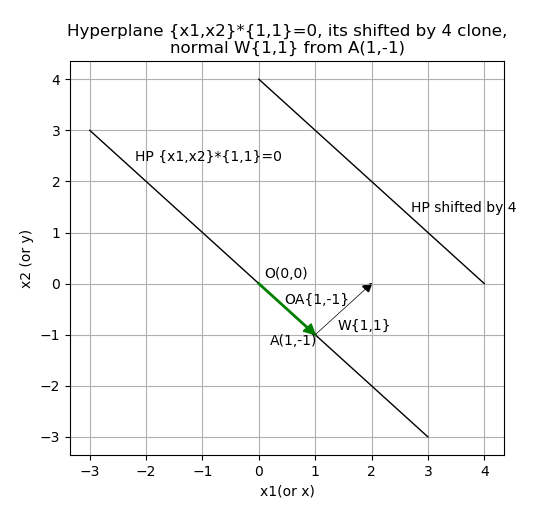
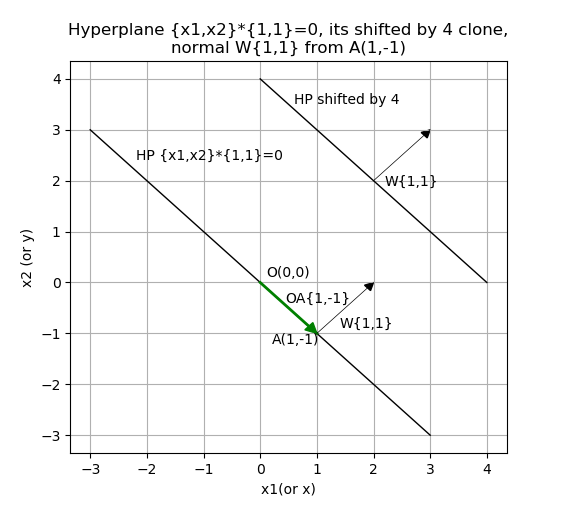
SVM s2

Changed region(s): [[0.0607, 0.0295, 0.9411, 0.9725], [0.5161, 0.1768, 0.7286, 0.2063], [0.0304, 0.442, 0.0607, 0.5599]]

diff --git a/docs/svm1.html b/docs/svm1.html
@@ -52,19 +52,21 @@
       
       <p><i>* In different sources vectors are described in slightly different notations, e.g. a vector is named with just bold lower case letter, see references.</i></p>
       
+      <p>First, you should better watch <a href="https://ocw.mit.edu/courses/electrical-engineering-and-computer-science/6-034-artificial-intelligence-fall-2010/">MIT 6.034 Fall 2010 Artificial Intelligence by Prof. Patrick Henry Winston, Lecture 16: Learning: Support Vector Machines.</a></p>
+      
       <h4>Hyperplane. From points to vectors.</h4>
       <p>Hyperplane is a linear function described with this vector equation:</p>
       <p>
       \begin{align}
-        \vec{\mathbf{X}} \cdot \vec{\mathbf{W}} = 0
+        \overrightarrow{X} \cdot \overrightarrow{W} = 0
       \end{align}
       </p>
-      <p>Where \(\vec{\mathbf{X}}\) is a data vector (e.g. points from origin (0,0)) in <b>N-dimention</b>.
-      \(\vec{\mathbf{W}}\) is a coefficient vector. So, this is Dot-product of two vectors, i.e. for <b>N-dimention</b> this is:</p>
+      <p>Where \(\overrightarrow{X}\) is a data vector (e.g. points from origin (0,0)) in <b>N-dimention</b>.
+      \(\overrightarrow{W}\) is a coefficient vector. So, this is Dot-product of two vectors, i.e. for <b>N-dimention</b> this is:</p>
       <p>
       <p>
       \begin{align}
-        \vec{\mathbf{X}} \cdot \vec{\mathbf{W}} = x1w1 + x2w2 + ... +xnwn
+        \overrightarrow{X} \cdot \overrightarrow{W} = x1w1 + x2w2 + ... +xnwn
       \end{align}
       </p>
       </p>
@@ -77,24 +79,53 @@
         So, shifted Hyperplane equation is:</p>
       <p>
       \begin{align}
-        \vec{\mathbf{X}} \cdot \vec{\mathbf{W}} + b = 0
+        \overrightarrow{X} \cdot \overrightarrow{W} + b = 0
       \end{align}
       </p>
       
       <p>Dot product of two vectors is also:</p>
       <p>
       \begin{align}
-        \vec{\mathbf{X}} \cdot \vec{\mathbf{W}} = \| \vec{\mathbf{X}} \| \| \vec{\mathbf{W}} \| cos \varTheta
+        \overrightarrow{X} \cdot \overrightarrow{W} = \| \overrightarrow{X} \| \| \overrightarrow{W} \| cos \varTheta
       \end{align}
       </p>
       <p>This means that a non-shifted Hyperplane's vectors in dot product are perpendicular to each other, i.e. \(cos \varTheta = 0 ⇒ \varTheta = 90^o\).
-        That is \(\vec{\mathbf{W}}\) is normal to \(\vec{\mathbf{X}}\).
+        That is \(\overrightarrow{W}\) is normal to \(\overrightarrow{X}\).
       </p>
       <p>Consider the simplest example - Hyperplane in 2D <b>y=-x</b>, that is <b>x2=-x1/w2</b>, that is <b>{x1,x2}*{1,1}=0</b>.
         Any point is also a vector from the origin, so lets draw this hyperplane plus its shifted by 4 clone, plus a point A on this Hyperplane for x1(or x)= 1, so x2( or y) = -1.
-        Vector \(\vec{\mathbf{OA}}\) from origin to A, and normal \(\vec{\mathbf{W}}\) from that point A:
+        Vector \(\overrightarrow{OA}\) from origin to A, and normal \(\overrightarrow{W}\) from that point A:
       </p>
       <p align="center"><img style="max-width: 100%" src="img/hyperplane.png" /></p>
+      <p>As you can see  \(\overrightarrow{W}\) is normal to this hyperplane with any shifting.</p>
+      
+      <h4>A SVM simplest example. Make it with your eyes.</h4>
+      <p>
+        Consider 4 samples in 2D - X1(0.5, 1.2), X2(1, 1) belong to class 1 (green) and X3(3, 3), X4(4, 3.3) belong to class 2 (blue):
+      </p>
+      <p align="center"><img style="max-width: 100%" src="img/svmsimple1.png" /></p>
+      <p>You can find the separating hyperplane and the support vectors (the "widest road") by your eyes.
+        The hyperplane is the same as in the previous chapter, i.e. coefficient vector \(\overrightarrow{W} = \langle 1, 1 \rangle \) and shifting <b>b=-4</b>.
+        Magnitude \(\|\overrightarrow{W}\|\) is half of the margin between support vectors in this case (1.4142).
+      </p>
+      <p>
+      Lets check these conditions:
+      \begin{align}
+        \overrightarrow{X_i} \cdot \overrightarrow{W} + b  \geq +1 \mbox{ for } y_i = +1 \mbox{ (class 2)}
+      \end{align}
+      \begin{align}
+        \overrightarrow{X_i} \cdot \overrightarrow{W} + b  \leq -1 \mbox{ for } y_i = -1 \mbox{ (class 1)}
+      \end{align}
+      </p>
+      <p>
+        <ul>
+          <li>X1\(\langle 0.5, 1.2 \rangle \) * \(\langle 1, 1 \rangle \) - 4 = -2.3</li>
+          <li>X2\(\langle 1, 1 \rangle \) * \(\langle 1, 1 \rangle \) - 4 = -2</li>
+          <li>X3\(\langle 3, 3 \rangle \) * \(\langle 1, 1 \rangle \) - 4 = 2</li>
+          <li>X3\(\langle 4, 3.3 \rangle \) * \(\langle 1, 1 \rangle \) - 4 = 3.3</li>
+        </ul>
+      </p>
+
       <p>
         References:
       </p>

diff --git a/docs/index.html b/docs/index.html
@@ -54,7 +54,7 @@
         а научный доклад у них зовется довольно весело - paper.
         Отечественная медицина позаимствовала много терминов с Английского, например - сенсибилизация, локализованный, синус лифтинг...
         Ученые и инженеры переводят и публикуют свои работы с родного на Английский язык.
-        Первая статья "Support vector machines" посвящена работе, автором которой является Владимир Вапник.
+        Первая статья "Support vector machines" посвящена работе автором которой является Владимир Вапник.
         Русско-язычных существенных источников по данной работе не наблюдается.
         Поэтому нет смысла писать статьи на Русском, тем более что все ссылки на англоязычные источники.
       </p>
@@ -66,7 +66,7 @@
         The reason probably is the ability to run commands in its shell. All scientist tools have a shell interpreter (Matlab, Octavia, Scilab, etc).
         But the truth is that many main units in SCI-Python libs are made with C (e.g. see on GitHub percent of C code in NymPy and SciPy).
         So, if you want to contribute, then you should use C for a code that requires a lot of computation, and you should use a good abstraction to make and use different implementations, i.e. from a generic one to architecture dependent ones (e.g. via SSE, GPU, etc.).
-        Besides you should code Python in more type-explicit way, e.g. denote floats with a dot, i.e. use <b>1.</b> instead of <b>1</b> in math expressions, scalars vars starts with lowercase letter, vectors and matrices with uppercase one.
+        Besides you should code Python in more type-explicit way, e.g. denote floats with a dot, i.e. use <b>1.</b> instead of <b>1</b> in math expressions.
         You also should be aware about Python's things that make your life really not easy, for example:
 <pre style="white-space: pre-wrap;">
 #Python2:
@@ -95,6 +95,13 @@
       <h3><a href="svmidx.html">Understanding Support Vector Machines.</a></h3>
       <p>This project is intended to understand, explain and try step by step SVM method for classifying (recognizing) and regressing (prediction) tasks.
         Many details are explained, e.g. what is Hyperplane and its shifting.
+      </p>
+
+      <p>
+        Plots(graphs) are made by Matplotlib, and source code (Python) are included.
+      </p>
+      <p>
+        Source code of this project: <a href="https://github.com/demidenko05/beige-math">https://github.com/demidenko05/beige-math</a>
       </p>
     </div>
 

diff --git a/src/python/svm/hyperplane.py b/src/python/svm/hyperplane.py
@@ -13,18 +13,29 @@ import numpy as np
 import matplotlib.pyplot as plt
 
 fig, ax = plt.subplots()
+#HP {x1,x2}*{1,1}=0 -> x2=-x1
 ax.plot([-3., 3.], [3., -3.], c='black', linewidth=1)
-ax.plot([0., 4.], [4., 0.], c='black', linewidth=1)
-ax.plot([0., 1.], [0., -1.], c='green', linewidth=2)
+#HP4 shifted with 4
+bHP = 4.
+ax.plot([0., bHP], [bHP, 0.], c='black', linewidth=1)
 W = np.array([1., 1.])
 #point A on HP to draw W:
 hpaX = 1.
+ax.plot([0., hpaX], [0., -hpaX], c='green', linewidth=2)
 HPA = np.array([hpaX, -hpaX])
 Wa = np.array([HPA, [HPA[0] + W[0], HPA[1] + W[1]]])
 ax.plot([Wa[0][0], Wa[1][0]], [Wa[0][1], Wa[1][1]], c='black', linewidth=0.5)
 TRNGlr = bsVecTrng(Wa[0], Wa[1], 0.15)
 patch = bsTrngPth(TRNGlr[0], TRNGlr[1], Wa[1], 'black')
 ax.add_patch(patch)
+#point A4 on HP4 to draw W:
+hpa4X = 2.
+HPA4 = np.array([hpa4X, -hpa4X + bHP])
+Wa4 = np.array([HPA4, [HPA4[0] + W[0], HPA4[1] + W[1]]])
+ax.plot([Wa4[0][0], Wa4[1][0]], [Wa4[0][1], Wa4[1][1]], c='black', linewidth=0.5)
+TRNGlr1 = bsVecTrng(Wa4[0], Wa4[1], 0.15)
+patch1 = bsTrngPth(TRNGlr1[0], TRNGlr1[1], Wa4[1], 'black')
+ax.add_patch(patch1)
 TRNGlr2 = bsVecTrng([0., 0], [1.,-1.], 0.20)
 patch2 = bsTrngPth(TRNGlr2[0], TRNGlr2[1], [1., -1], 'green')
 ax.add_patch(patch2)
@@ -32,8 +43,9 @@ ax.annotate('O(0,0)', xy=(0.1, 0.1))
 ax.annotate('A(1,-1)', xy=(0.2, -1.2))
 ax.annotate('OA{1,-1}', xy=(0.45, -0.4))
 ax.annotate('W{1,1}', xy=(1.4, -0.9))
+ax.annotate('W{1,1}', xy=(2.2, 1.9))
 ax.annotate('HP {x1,x2}*{1,1}=0', xy=(-2.2, 2.4))
-ax.annotate('HP shifted by 4', xy=(2.7, 1.4))
+ax.annotate('HP shifted by 4', xy=(.6, 3.5))
 ax.set(xlabel='x1(or x)', ylabel='x2 (or y)', title='Hyperplane {x1,x2}*{1,1}=0, its shifted by 4 clone,\nnormal W{1,1} from A(1,-1)')
 ax.grid()
 plt.show()

diff --git a/src/python/svm/simple.py b/src/python/svm/simple.py
@@ -32,10 +32,20 @@ TRNGlr = bsVecTrng(Wa[0], Wa[1], 0.15)
 patch = bsTrngPth(TRNGlr[0], TRNGlr[1], Wa[1], 'black')
 ax.add_patch(patch)
 ax.annotate('W', xy=(3.2, 1.4))
-ax.plot([0,2], [2,0], c=CLRS[0], linewidth=1)
-ax.plot([0,6], [6,0], c=CLRS[1], linewidth=1)
-ax.annotate('H1', xy=(.13, 2.))
+ax.annotate('-b/mag(W)', xy=(.4, .2))
+ax.plot([0,2], [2,0], c=CLRS[0], linewidth=1.)
+ax.plot([0,6], [6,0], c=CLRS[1], linewidth=1.)
+BWX = np.array([2., 2.])
+O = np.array([0., 0.])
+ax.plot([O[0], BWX[0]], [O[0], BWX[1]], c='black', linewidth=.5)
+TRNGlr1 = bsVecTrng(BWX, O, 0.15)
+patch1 = bsTrngPth(TRNGlr1[0], TRNGlr1[1], O, 'black')
+ax.add_patch(patch1)
+
+ax.annotate('HP W{1,1} b=-4', xy=(.2, 4.))
+ax.annotate('H1', xy=(1.6, .4))
 ax.annotate('H2', xy=(5.1, 1.))
-ax.set(xlabel='x1', ylabel='x2', title='Simplest example in 2D: 2x2 points\nX1[0.5, 1.2], X2[1, 1] = class1(green)\nX3[3, 3], X4[4, 3.3] = class2(blue)\nX2[1, 1] and X3[3, 3] - belongs to the support vectors H1 and H2')
+#ax.set(xlabel='x1', ylabel='x2', title='Simplest example in 2D: 2x2 samples\nX1{0.5, 1.2}, X2{1, 1} of class 1(green)\n and X3{3, 3}, X4{4, 3.3} of class 2(blue)\nX2{1, 1} and X3{3, 3} - belong to these support vectors H1 and H2')
+ax.set(xlabel='x1', ylabel='x2')
 ax.grid()
 plt.show()
